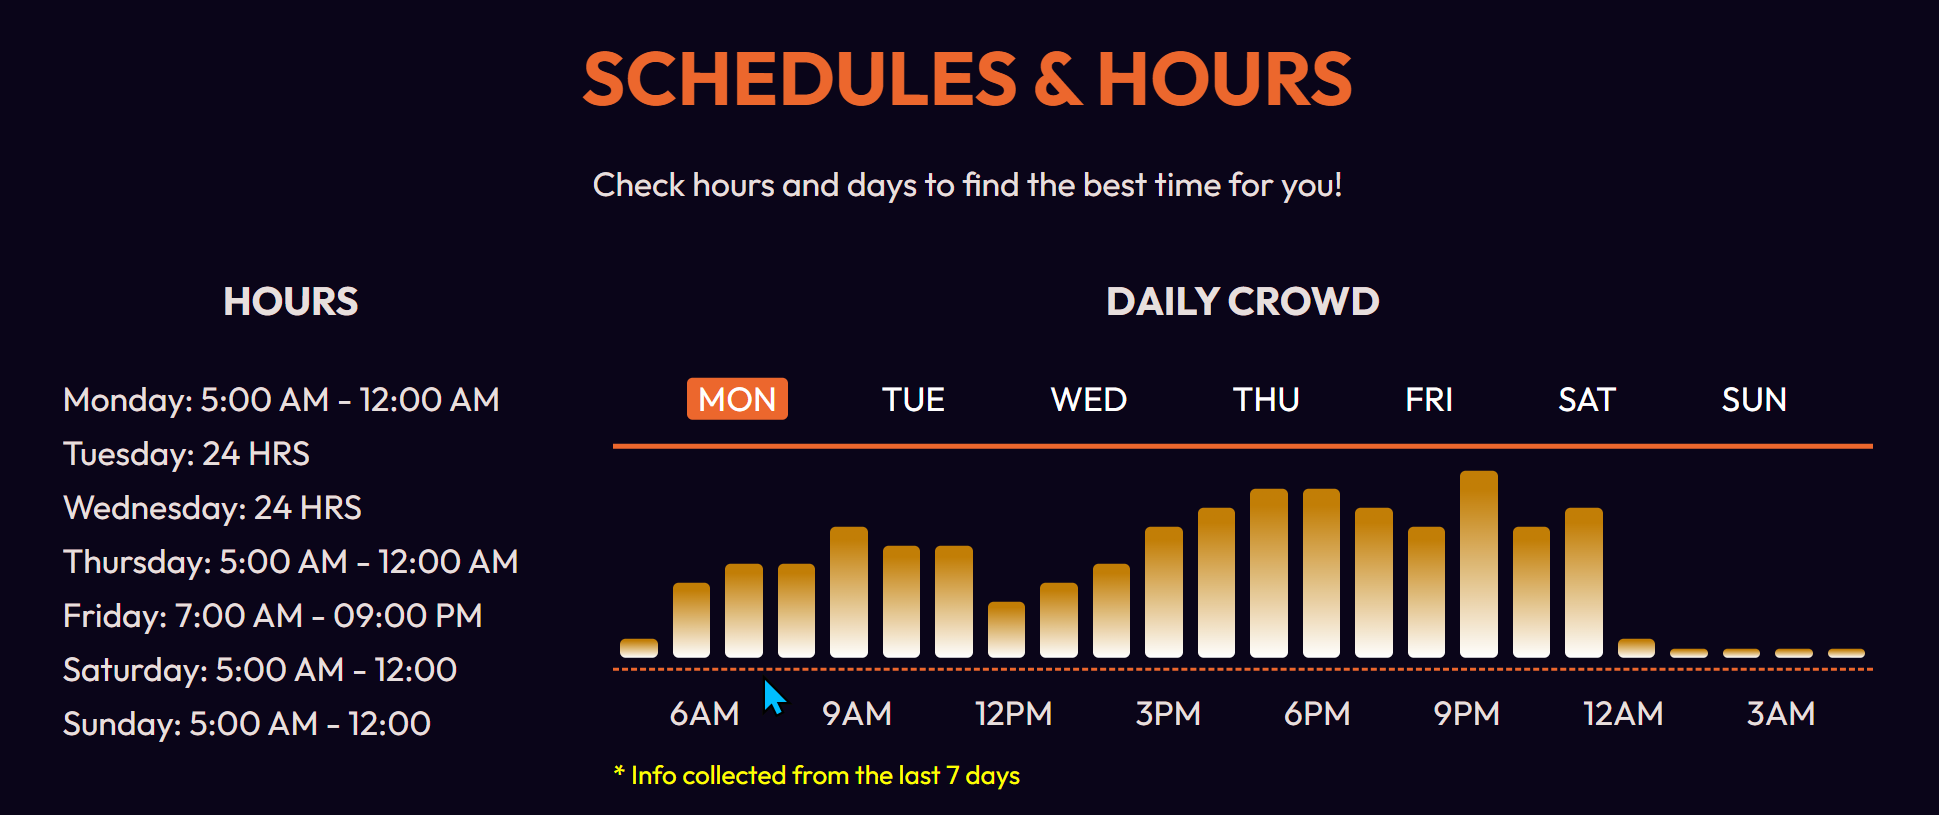
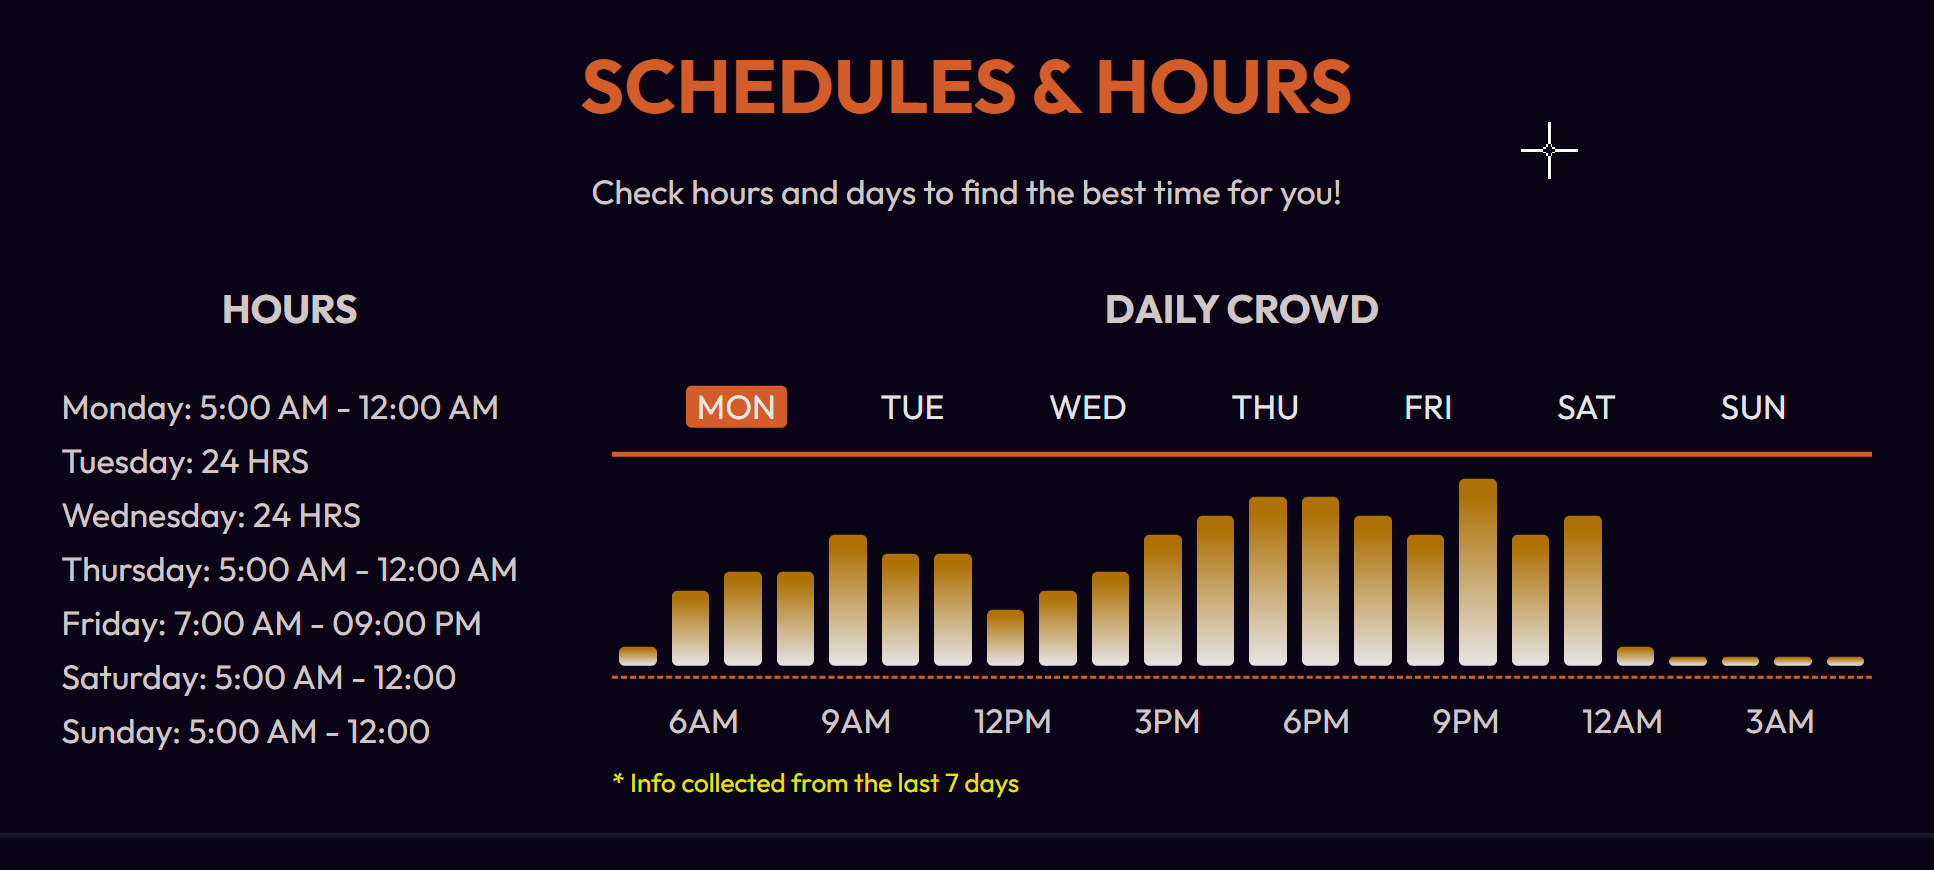
Work in progress

diff --git a/src/crowdMeter/Crowdmeter.jsx b/src/crowdMeter/Crowdmeter.jsx
@@ -13,12 +13,23 @@ const Crowdmeter = () => {
         </div>
         <div className="schedule-content flex gap-10  ">
           <div className="hours w-[300px]">
-            <h2 className="font-bold uppercase border-2 border-white">hours</h2>
+            <h2 className="font-bold uppercase mb-10">hours</h2>
+            <div className="hours-block flex flex-col gap-1 text-left  ">
+              <span>Monday: 5:00 AM - 12:00 AM</span>
+              <span>Tuesday: 24 HRS</span>
+              <span>Wednesday: 24 HRS</span>
+              <span>Thursday: 5:00 AM - 12:00 AM</span>
+              <span>Friday: 7:00 AM - 09:00 PM</span>
+              <span>Saturday: 5:00 AM - 12:00</span>
+              <span>Sunday: 5:00 AM - 12:00</span>
+            </div>
           </div>
           <div className="crowd w-[700px]">
-            <h2 className="font-bold uppercase border-2 border-white">
-              daily crowd
-            </h2>
+            <h2 className="font-bold uppercase mb-10">daily crowd</h2>
+            <div className="crowd-block  "></div>
+            <span className="text-yellow-300 text-sm tracking-widest ">
+              * Info Collected from the last 30 days
+            </span>
           </div>
         </div>
       </div>
